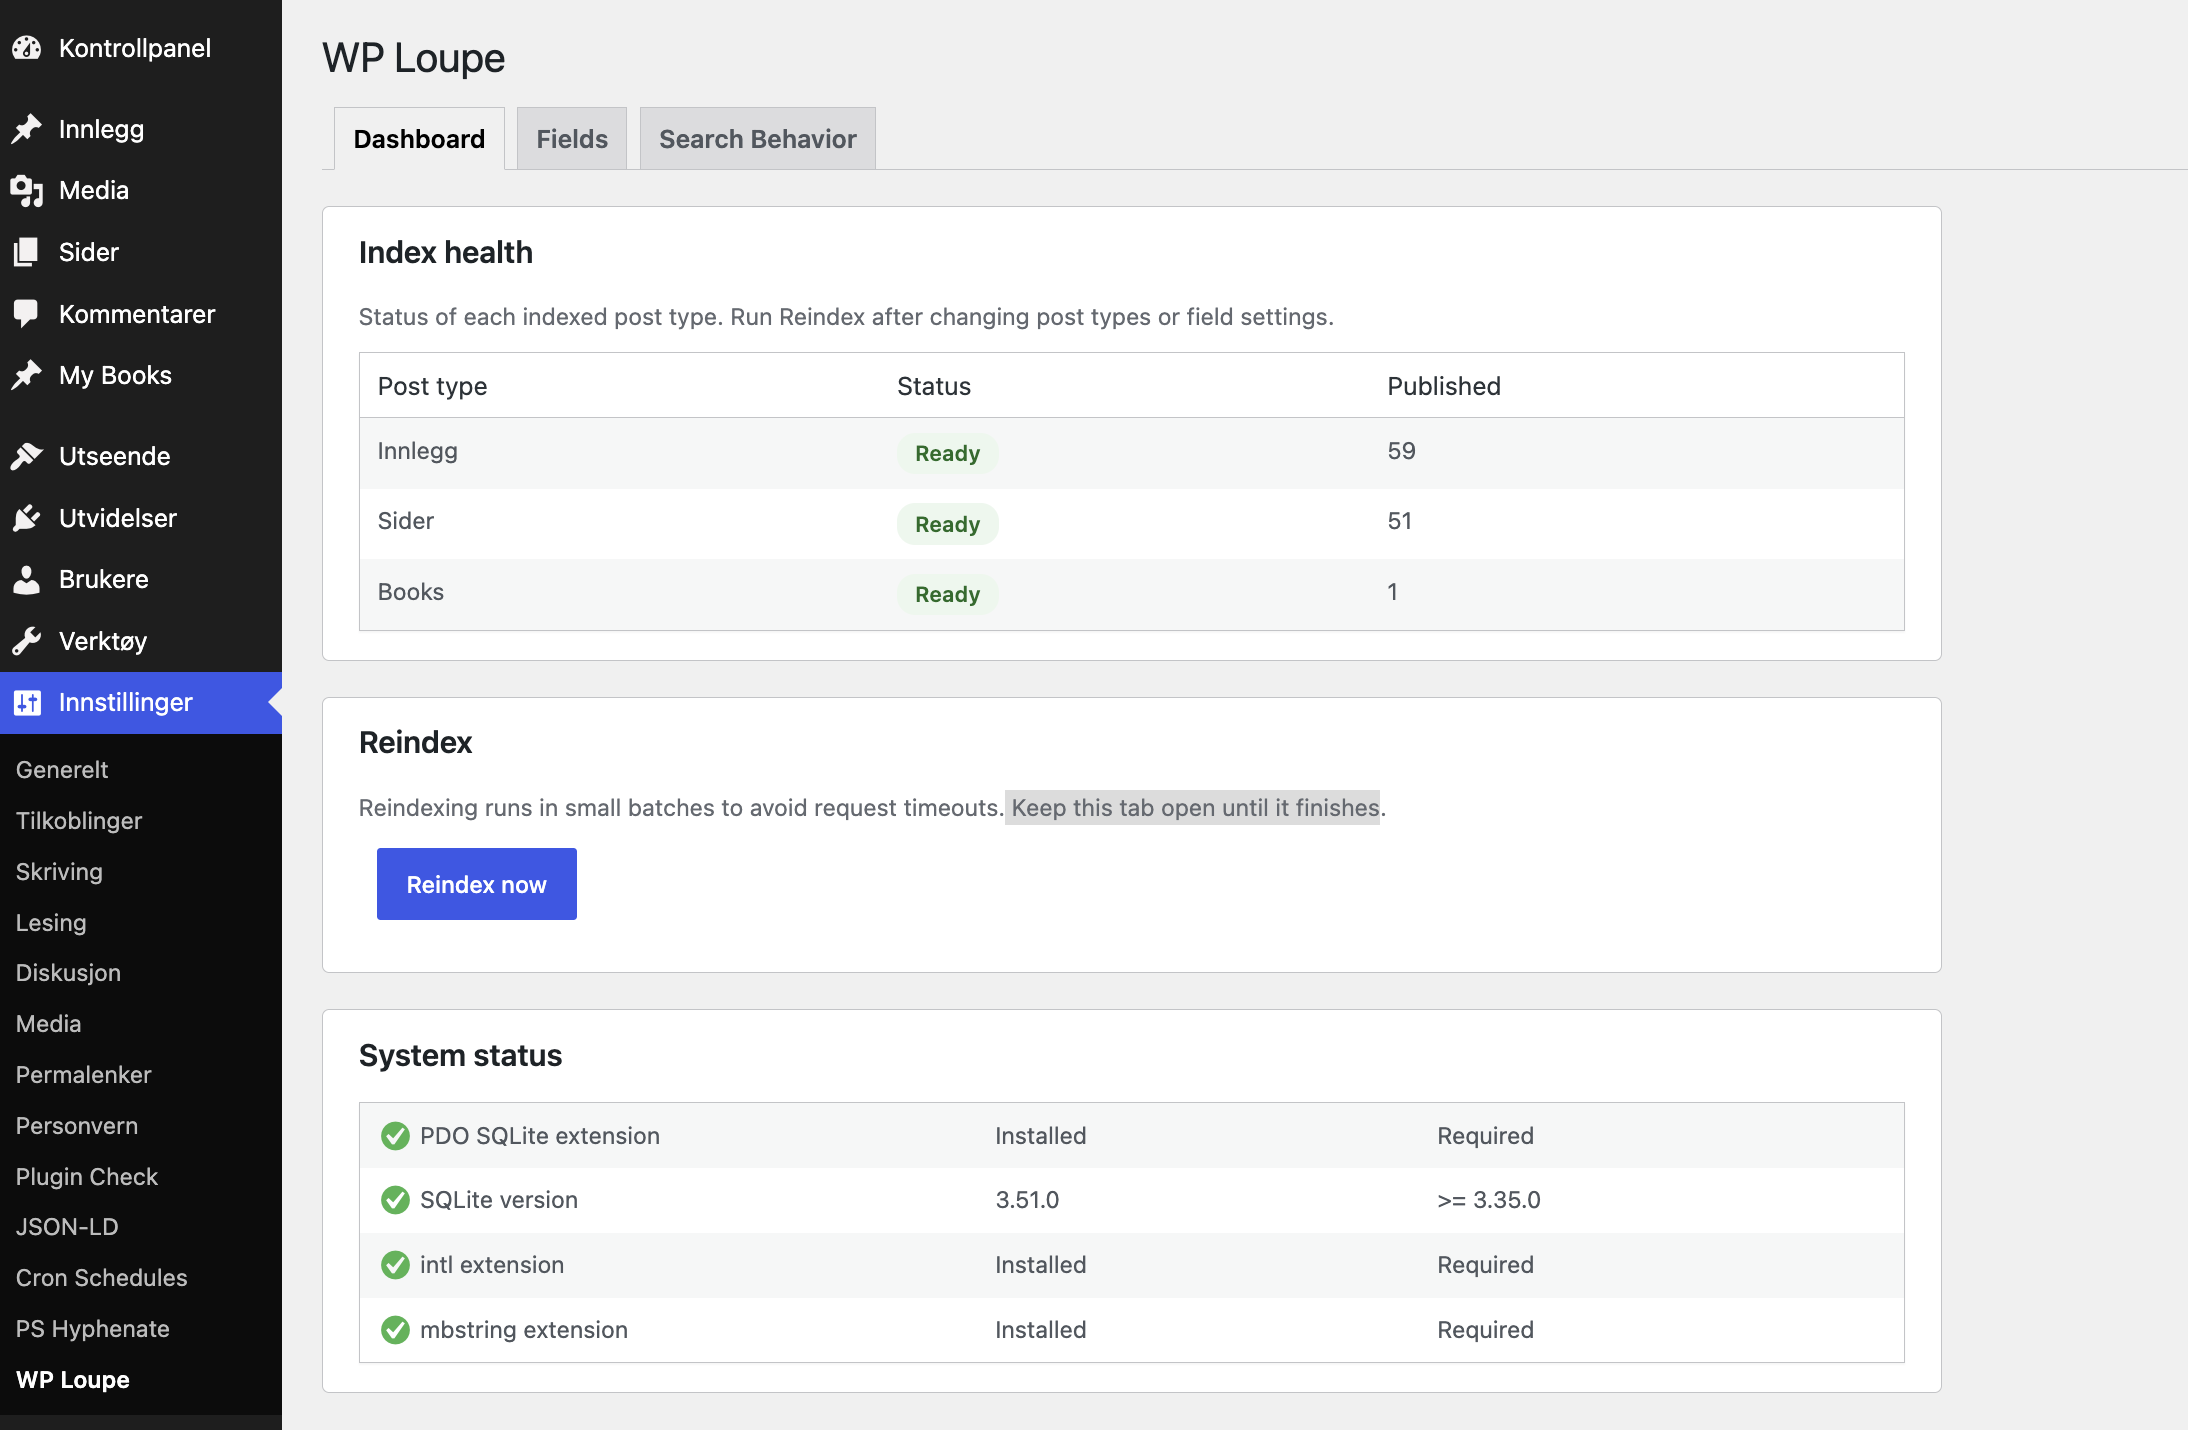
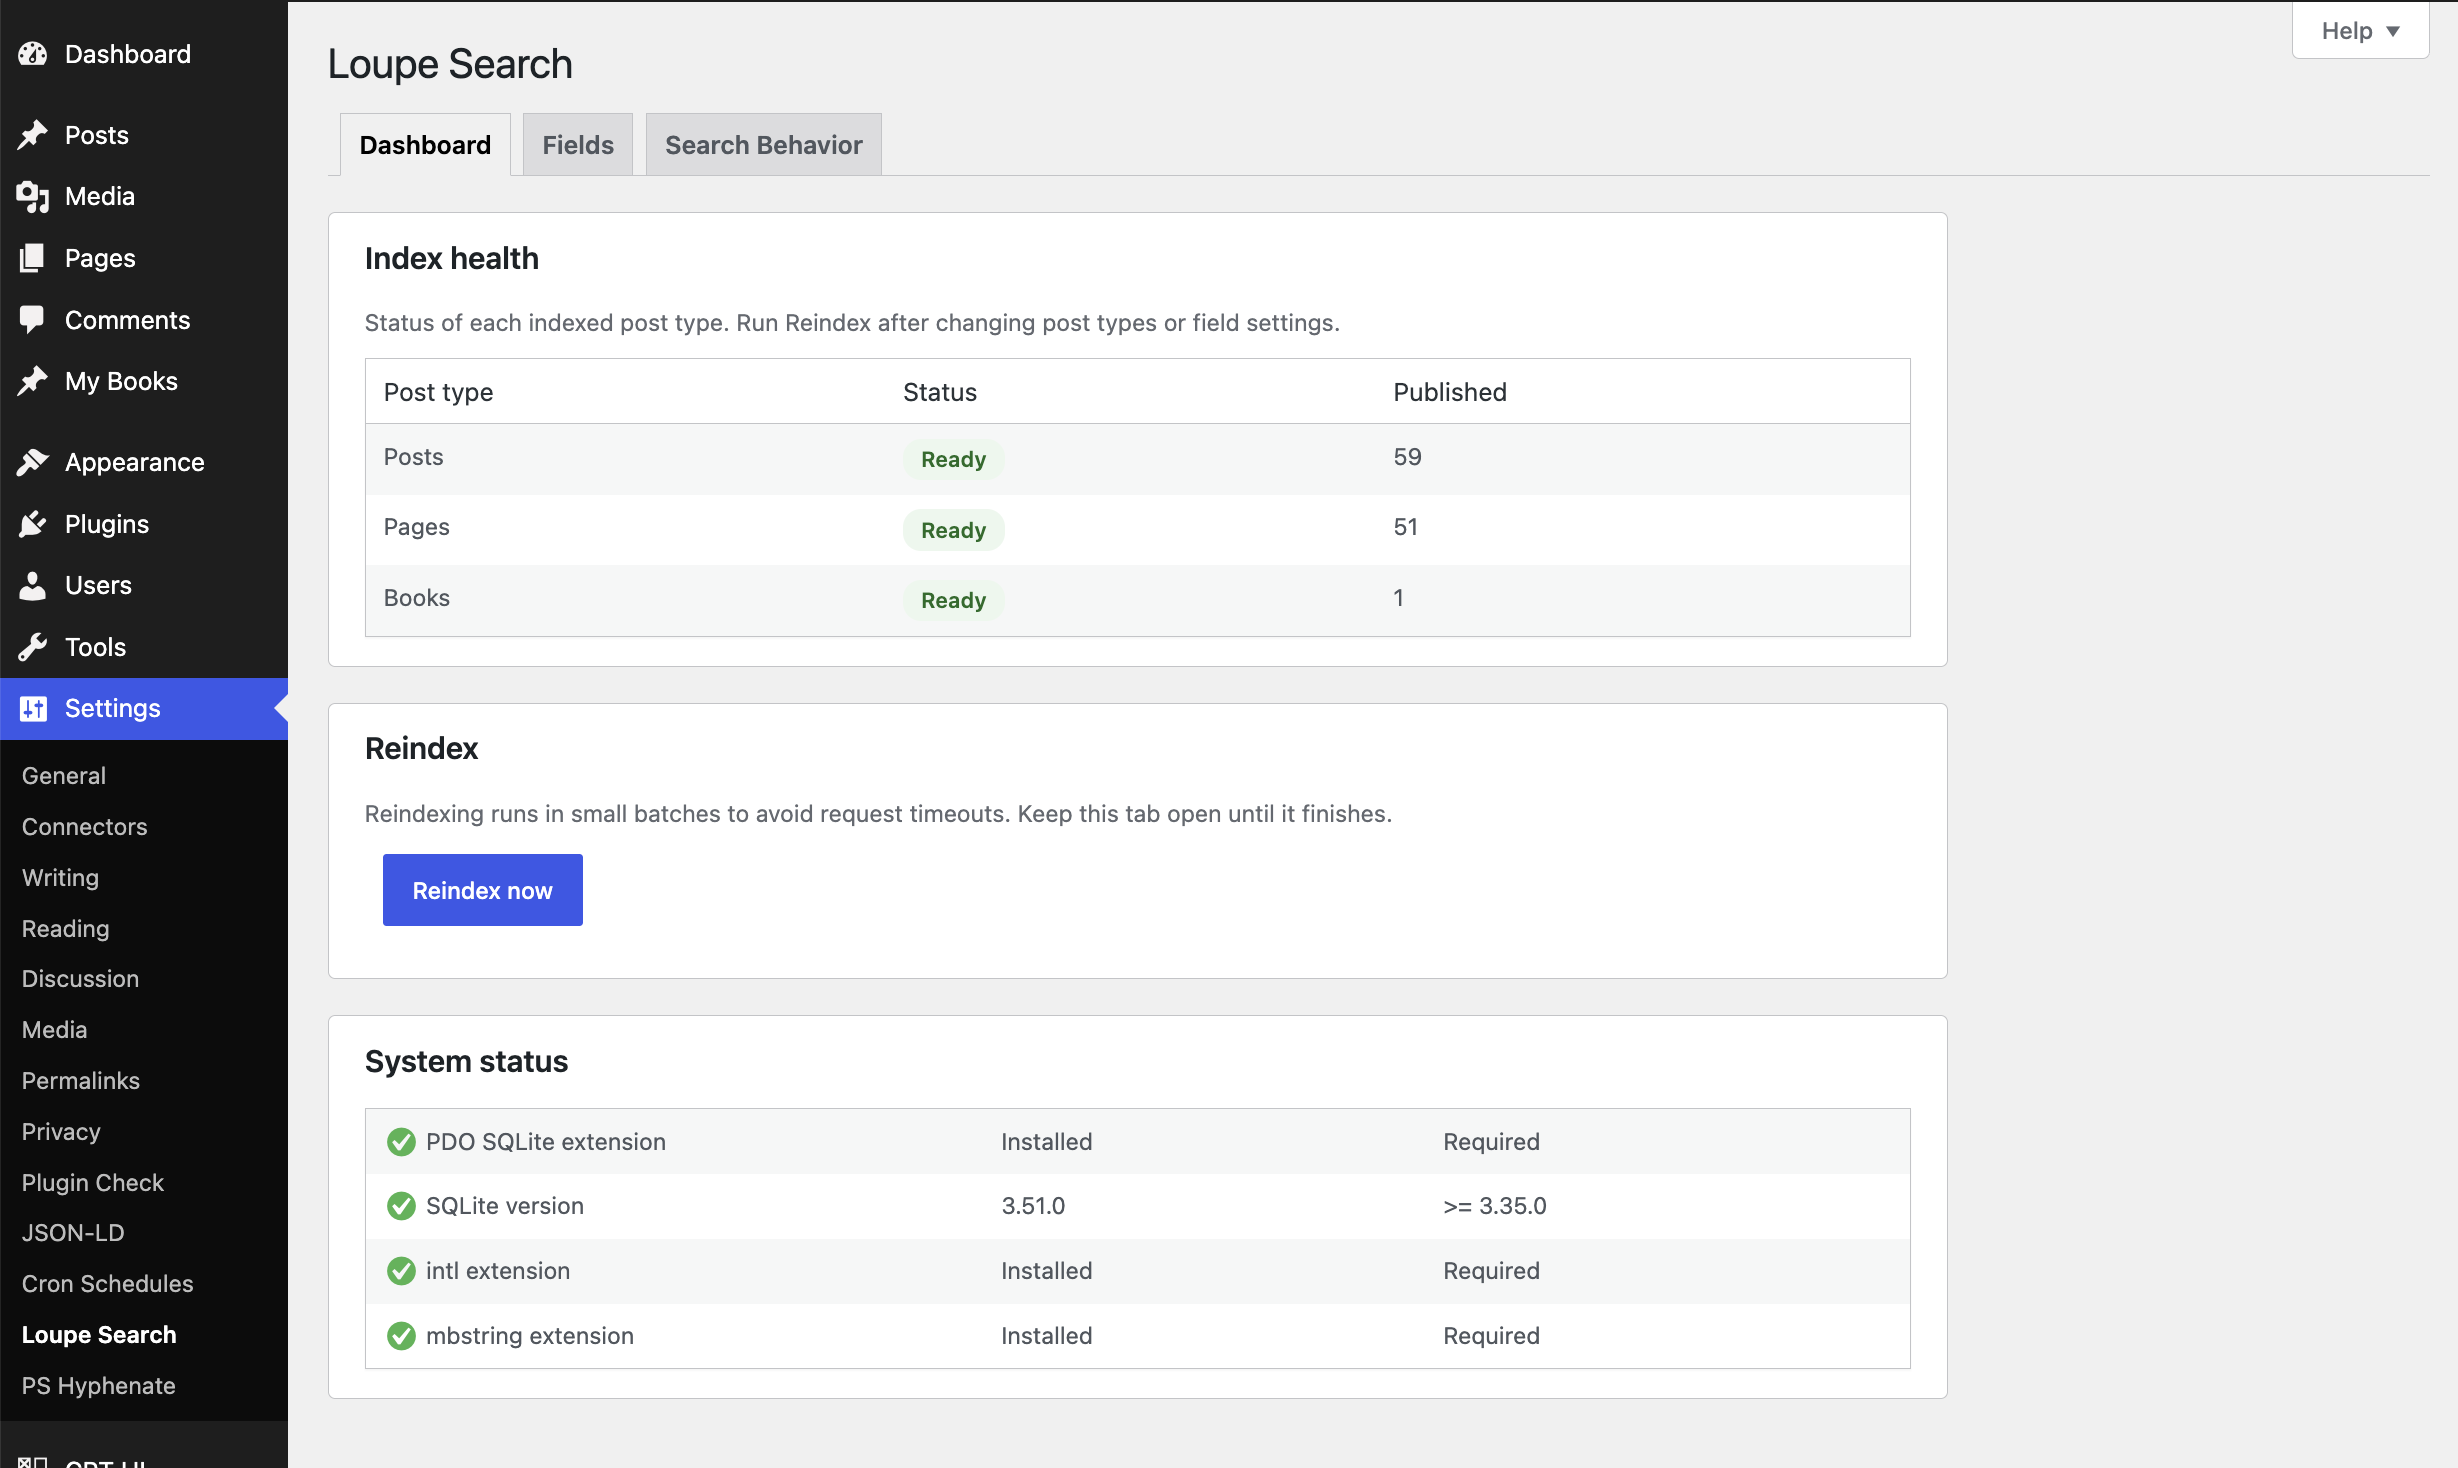
Release 1.2.3: updated screenshots
- Refresh the WordPress.org screenshots to match the current settings UI.
- Correct the screenshot descriptions in readme.txt; the Search Behavior tab
  shows tokenization, prefix search and typo tolerance, not stemming/stop words.

diff --git a/loupe-search.php b/loupe-search.php
@@ -10,7 +10,7 @@
  * Plugin Name:       Loupe Search
  * Plugin URI:        https://github.com/soderlind/loupe-search
  * Description:       Enhance the search functionality of your WordPress site with Loupe Search.
- * Version:           1.2.2
+ * Version:           1.2.3
  * Author:            Per Soderlind
  * Author URI:        https://soderlind.no
  * License:           GPL-2.0+

diff --git a/CHANGELOG.md b/CHANGELOG.md
@@ -5,6 +5,15 @@ All notable changes to this project will be documented in this file.
 The format is based on [Keep a Changelog](https://keepachangelog.com/en/1.0.0/),
 and this project adheres to [Semantic Versioning](https://semver.org/spec/v2.0.0.html).
 
+## [1.2.3] - 2026-08-02
+
+### Changed
+- Updated the plugin screenshots to reflect the current settings UI.
+- Corrected the screenshot descriptions in `readme.txt` to match the current Search Behavior tab (tokenization, prefix search, typo tolerance).
+
+### Internal
+- Added unit tests for the indexer, the plugin loader and the deprecated `WP_Loupe_Search` facade, and strengthened the existing hook, abilities and REST tests.
+
 ## [1.2.2] - 2026-07-30
 
 ### Security
